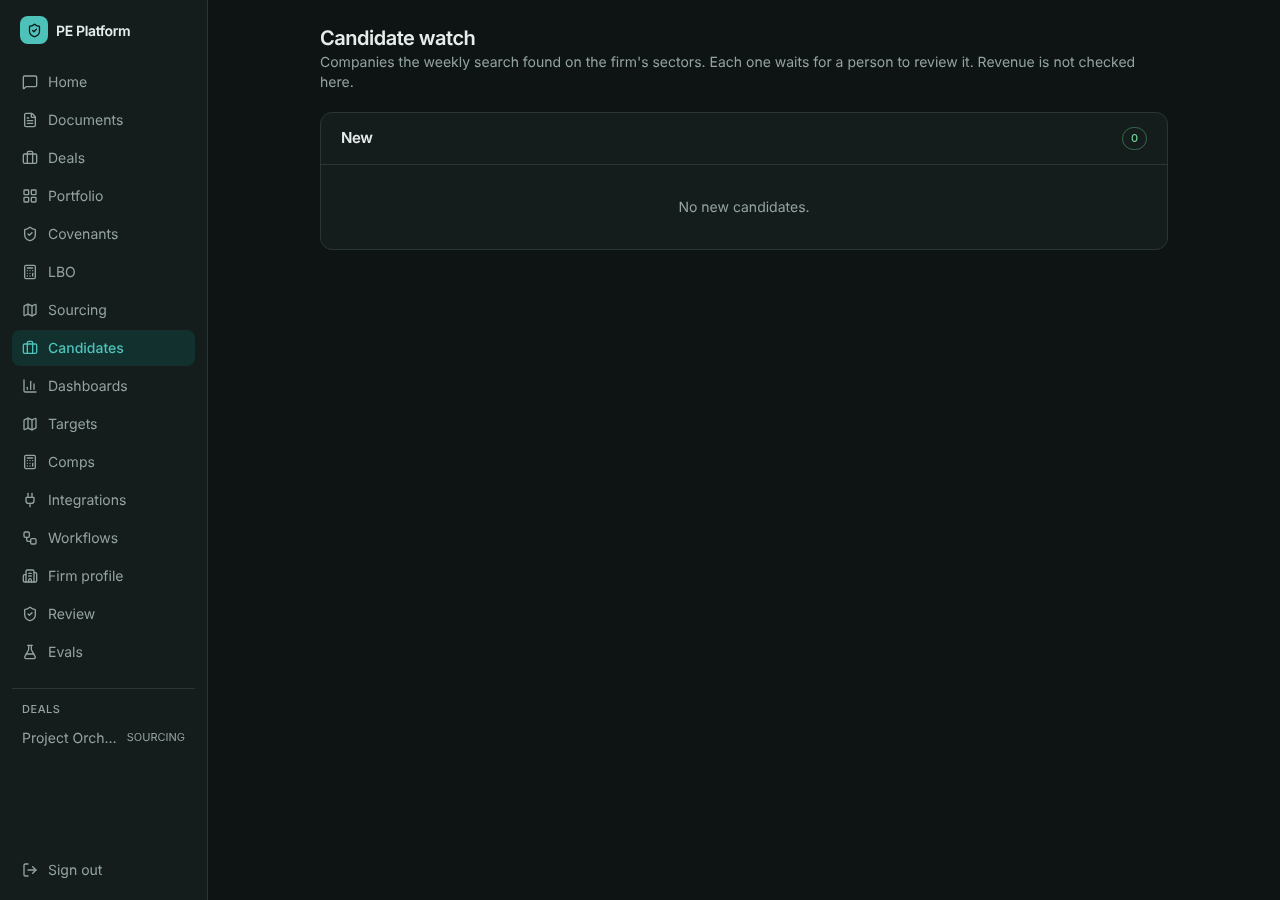
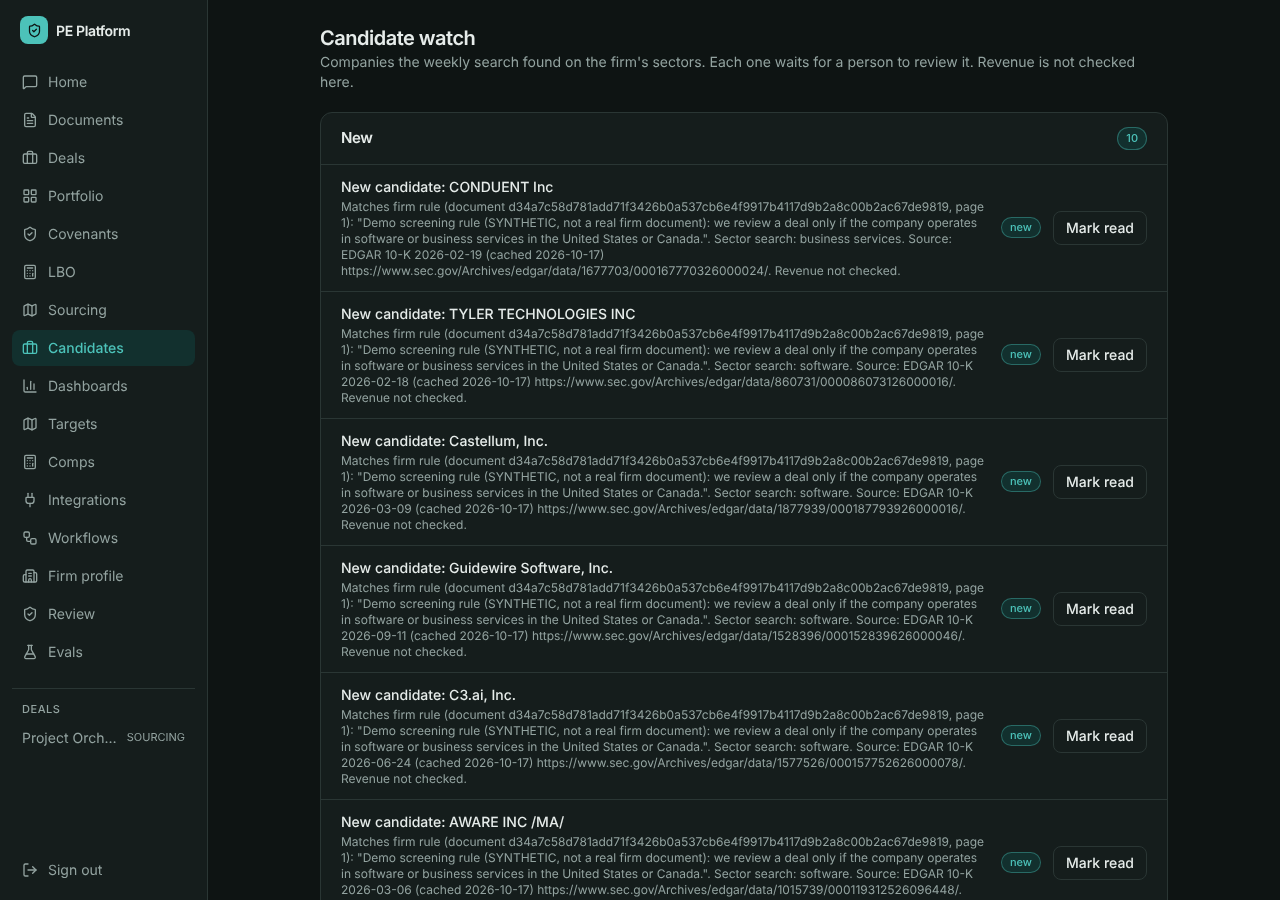
Reproducible demo: covenant terms, derived EBITDA, LBO run, cached candidate watch
make demo now runs demo_extras.py after the seed. It reads the Term Loan A
exhibit from DATA_DIR, runs an LBO with derived EBITDA and labelled
assumptions, and runs one candidate watch over a dated EDGAR capture in
data/demo/cache (captured 2026-10-17, ABS trusts and lenders removed). The
firm screening rule is synthetic demo text, labelled as such.

Claude-Session: https://claude.ai/code/session_01UJT41KsMGqU6qYoKxNBJjn

diff --git a/scripts/demo_extras.py b/scripts/demo_extras.py
@@ -1,0 +1,95 @@
+"""Fill the demo with what the walkthrough shows, from local files only, so a fresh `make demo` reproduces it.
+
+  python scripts/demo_extras.py API_URL API_KEY DB_URL DATA_DIR DEMO_DIR
+
+1. Term Loan A covenant terms from the XPO exhibit in DATA_DIR/filings (skipped if the file is absent).
+2. An LBO run with derived EBITDA and labelled assumptions, saved to DEMO_DIR/lbo_run.json.
+3. One candidate watch run over a cached, dated EDGAR result (data/demo/cache). The firm screening rule is
+   SYNTHETIC demo text, uploaded as its own document and labelled as such; it is not a real firm's rule.
+Nothing personal is written. Re-running adds nothing new (facts and alerts are deduplicated).
+"""
+import json
+import sys
+import urllib.error
+import urllib.request
+from pathlib import Path
+
+API, KEY, DB_URL, DATA, DEMO = sys.argv[1].rstrip("/"), sys.argv[2], sys.argv[3], Path(sys.argv[4]), Path(sys.argv[5])
+ROOT = Path(__file__).resolve().parents[1]
+sys.path.insert(0, str(ROOT / "apps" / "api"))
+
+
+def call(method, path, body=None, raw=None, ctype=None):
+    h = {"Authorization": "Bearer " + KEY}
+    data = raw
+    if body is not None:
+        data, ctype = json.dumps(body).encode(), "application/json"
+    if ctype:
+        h["Content-Type"] = ctype
+    req = urllib.request.Request(API + path, data=data, method=method, headers=h)
+    try:
+        with urllib.request.urlopen(req, timeout=180) as r:
+            return json.load(r)
+    except urllib.error.HTTPError as e:
+        return {"error": e.code, "detail": e.read().decode()[:200]}
+
+
+def upload(path: Path, ctype: str):
+    b = "----demo" + path.name.replace(".", "")
+    head = (f'--{b}\r\nContent-Disposition: form-data; name="deal"\r\n\r\nProject Orchard\r\n'
+            f'--{b}\r\nContent-Disposition: form-data; name="file"; filename="{path.name}"\r\n'
+            f"Content-Type: {ctype}\r\n\r\n").encode()
+    raw = head + path.read_bytes() + f"\r\n--{b}--\r\n".encode()
+    return call("POST", "/documents", raw=raw, ctype=f"multipart/form-data; boundary={b}")
+
+
+# 1. Term Loan A terms
+tla = DATA / "filings" / "XPO_Ex10-2_TermLoanA_Agreement_2026-06.htm"
+if tla.exists():
+    doc = upload(tla, "text/html")
+    print("term loan A:", call("POST", f"/documents/{doc['id']}/credit-agreement/facts").get("created", doc))
+else:
+    print("term loan A: exhibit not in DATA_DIR, skipped")
+
+# 2. LBO run: EBITDA derived from cited facts, every other input a labelled assumption
+A = {"set_by": "deal team", "set_on": "2026-10-17", "reason": "demo base case, not a sourced figure"}
+inputs = {"ebitda": {"derived": {"formula": "ebitda", "entity": "3M Company", "period": "FY2019"}}}
+for k, v in {"entry_multiple": "10", "exit_multiple": "11", "leverage": "5", "interest_rate": "8",
+             "tax_rate": "25", "cash_conversion": "60", "fees_pct": "2", "years": "5"}.items():
+    inputs[k] = {"value": v, "assumption": A}
+run = call("POST", "/lbo/returns", {"inputs": inputs, "entry_multiples": ["8", "9", "10", "11", "12"],
+                                    "exit_multiples": ["8", "9", "10", "11", "12"]})
+(DEMO / "lbo_run.json").write_text(json.dumps(run, indent=1))
+print("lbo run:", {k: run.get(k) for k in ("moic", "irr", "error")})
+
+# 3. Candidate watch over the cached EDGAR result, with a synthetic firm rule
+from sqlalchemy import select  # noqa: E402
+
+from app import alerts as al  # noqa: E402
+from app.db import make_engine, make_session_factory  # noqa: E402
+from app.models import Document, Fact, FirmKnowledge  # noqa: E402
+
+RULE = ("Demo screening rule (SYNTHETIC, not a real firm document): "
+        "we review a deal only if the company operates in software or business services in the United States or Canada.")
+rule_html = DEMO / "synthetic_firm_rule.htm"
+rule_html.write_text(f"<html><body><p>{RULE}</p></body></html>")
+rule_doc = upload(rule_html, "text/html")
+engine = make_engine(DB_URL)
+with make_session_factory(engine)() as db:
+    tenant = db.execute(select(Fact.tenant_id).limit(1)).scalar_one()
+    doc = db.get(Document, rule_doc.get("id", ""))
+    if doc is None:
+        print("candidate watch: rule document not stored, skipped")
+    else:
+        if db.query(FirmKnowledge).filter_by(tenant_id=tenant, key="deal_screening_criteria").first() is None:
+            db.add(FirmKnowledge(tenant_id=tenant, key="deal_screening_criteria", value=RULE,
+                                 document_id=doc.id, page=1, quote=RULE, status="accepted"))
+            db.commit()
+        cache = json.loads((ROOT / "data" / "demo" / "cache" / "edgar_candidates_2026-10-17.json").read_text())
+
+        def cached(term, since, until):
+            return [(i["name"], i["url"], f"{i['label']} (cached {cache['captured_on']})")
+                    for i in cache["terms"].get(term, [])]
+
+        made = al.scan_candidates(db, tenant, cached, None, "2025-10-17", "2026-10-17")
+        print(f"candidate watch: {len(made)} new candidates from cached search {cache['captured_on']}")
